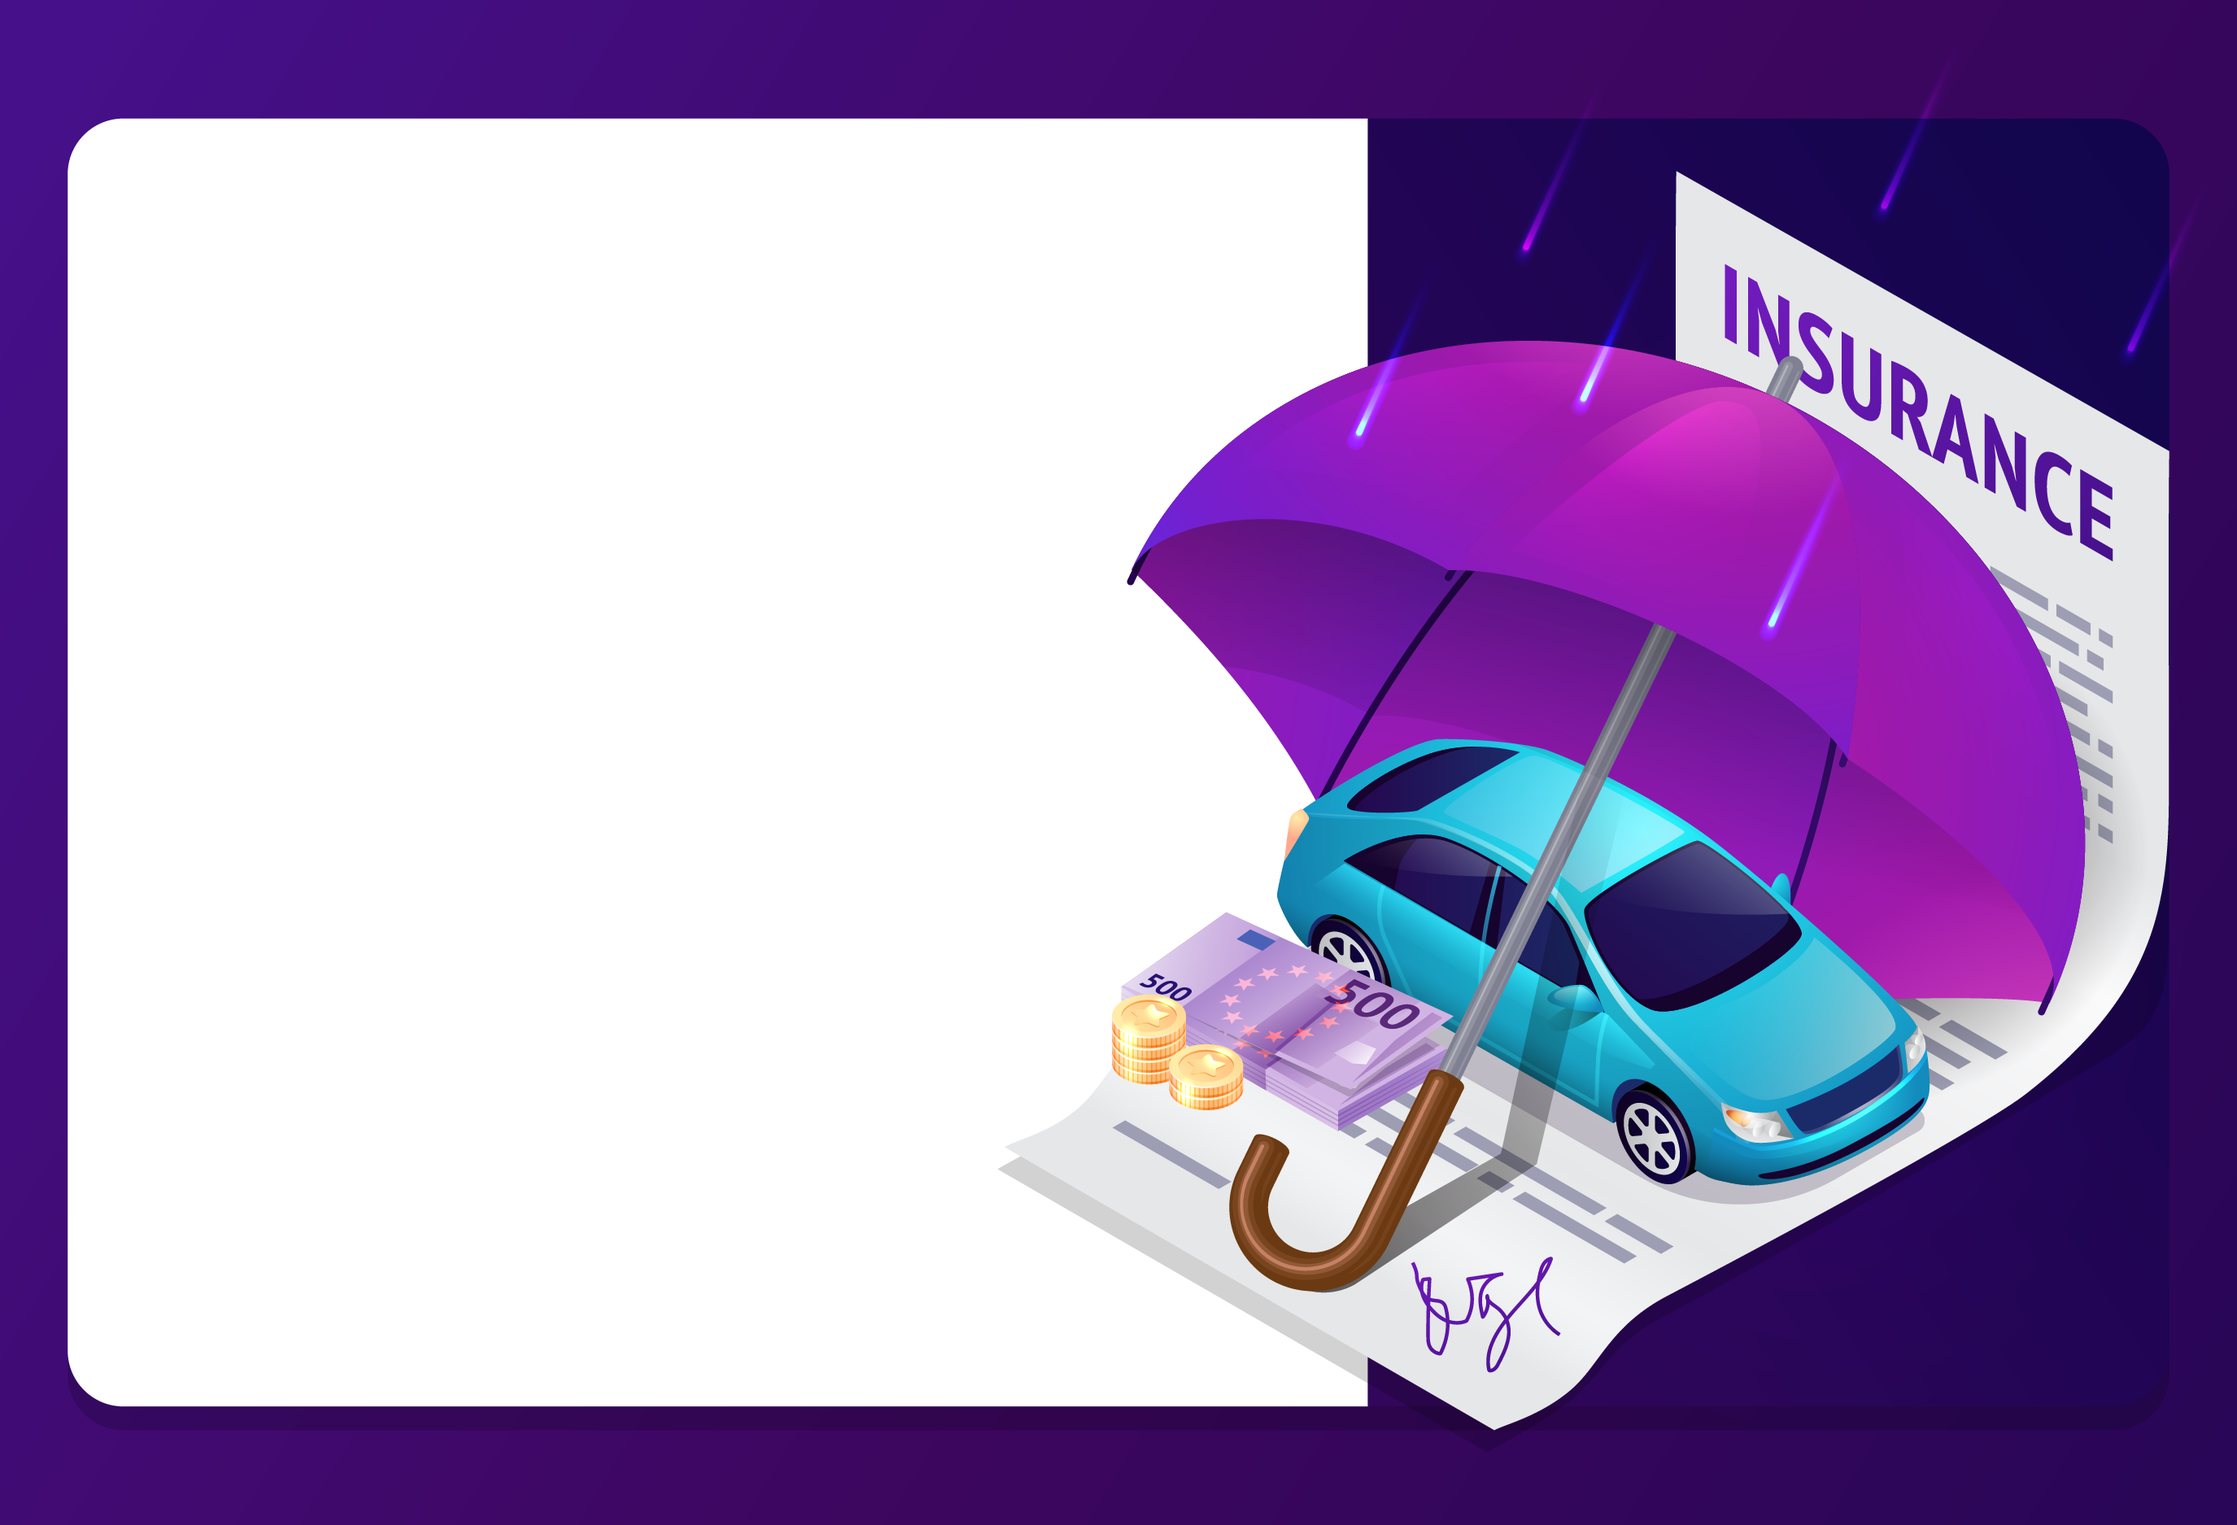
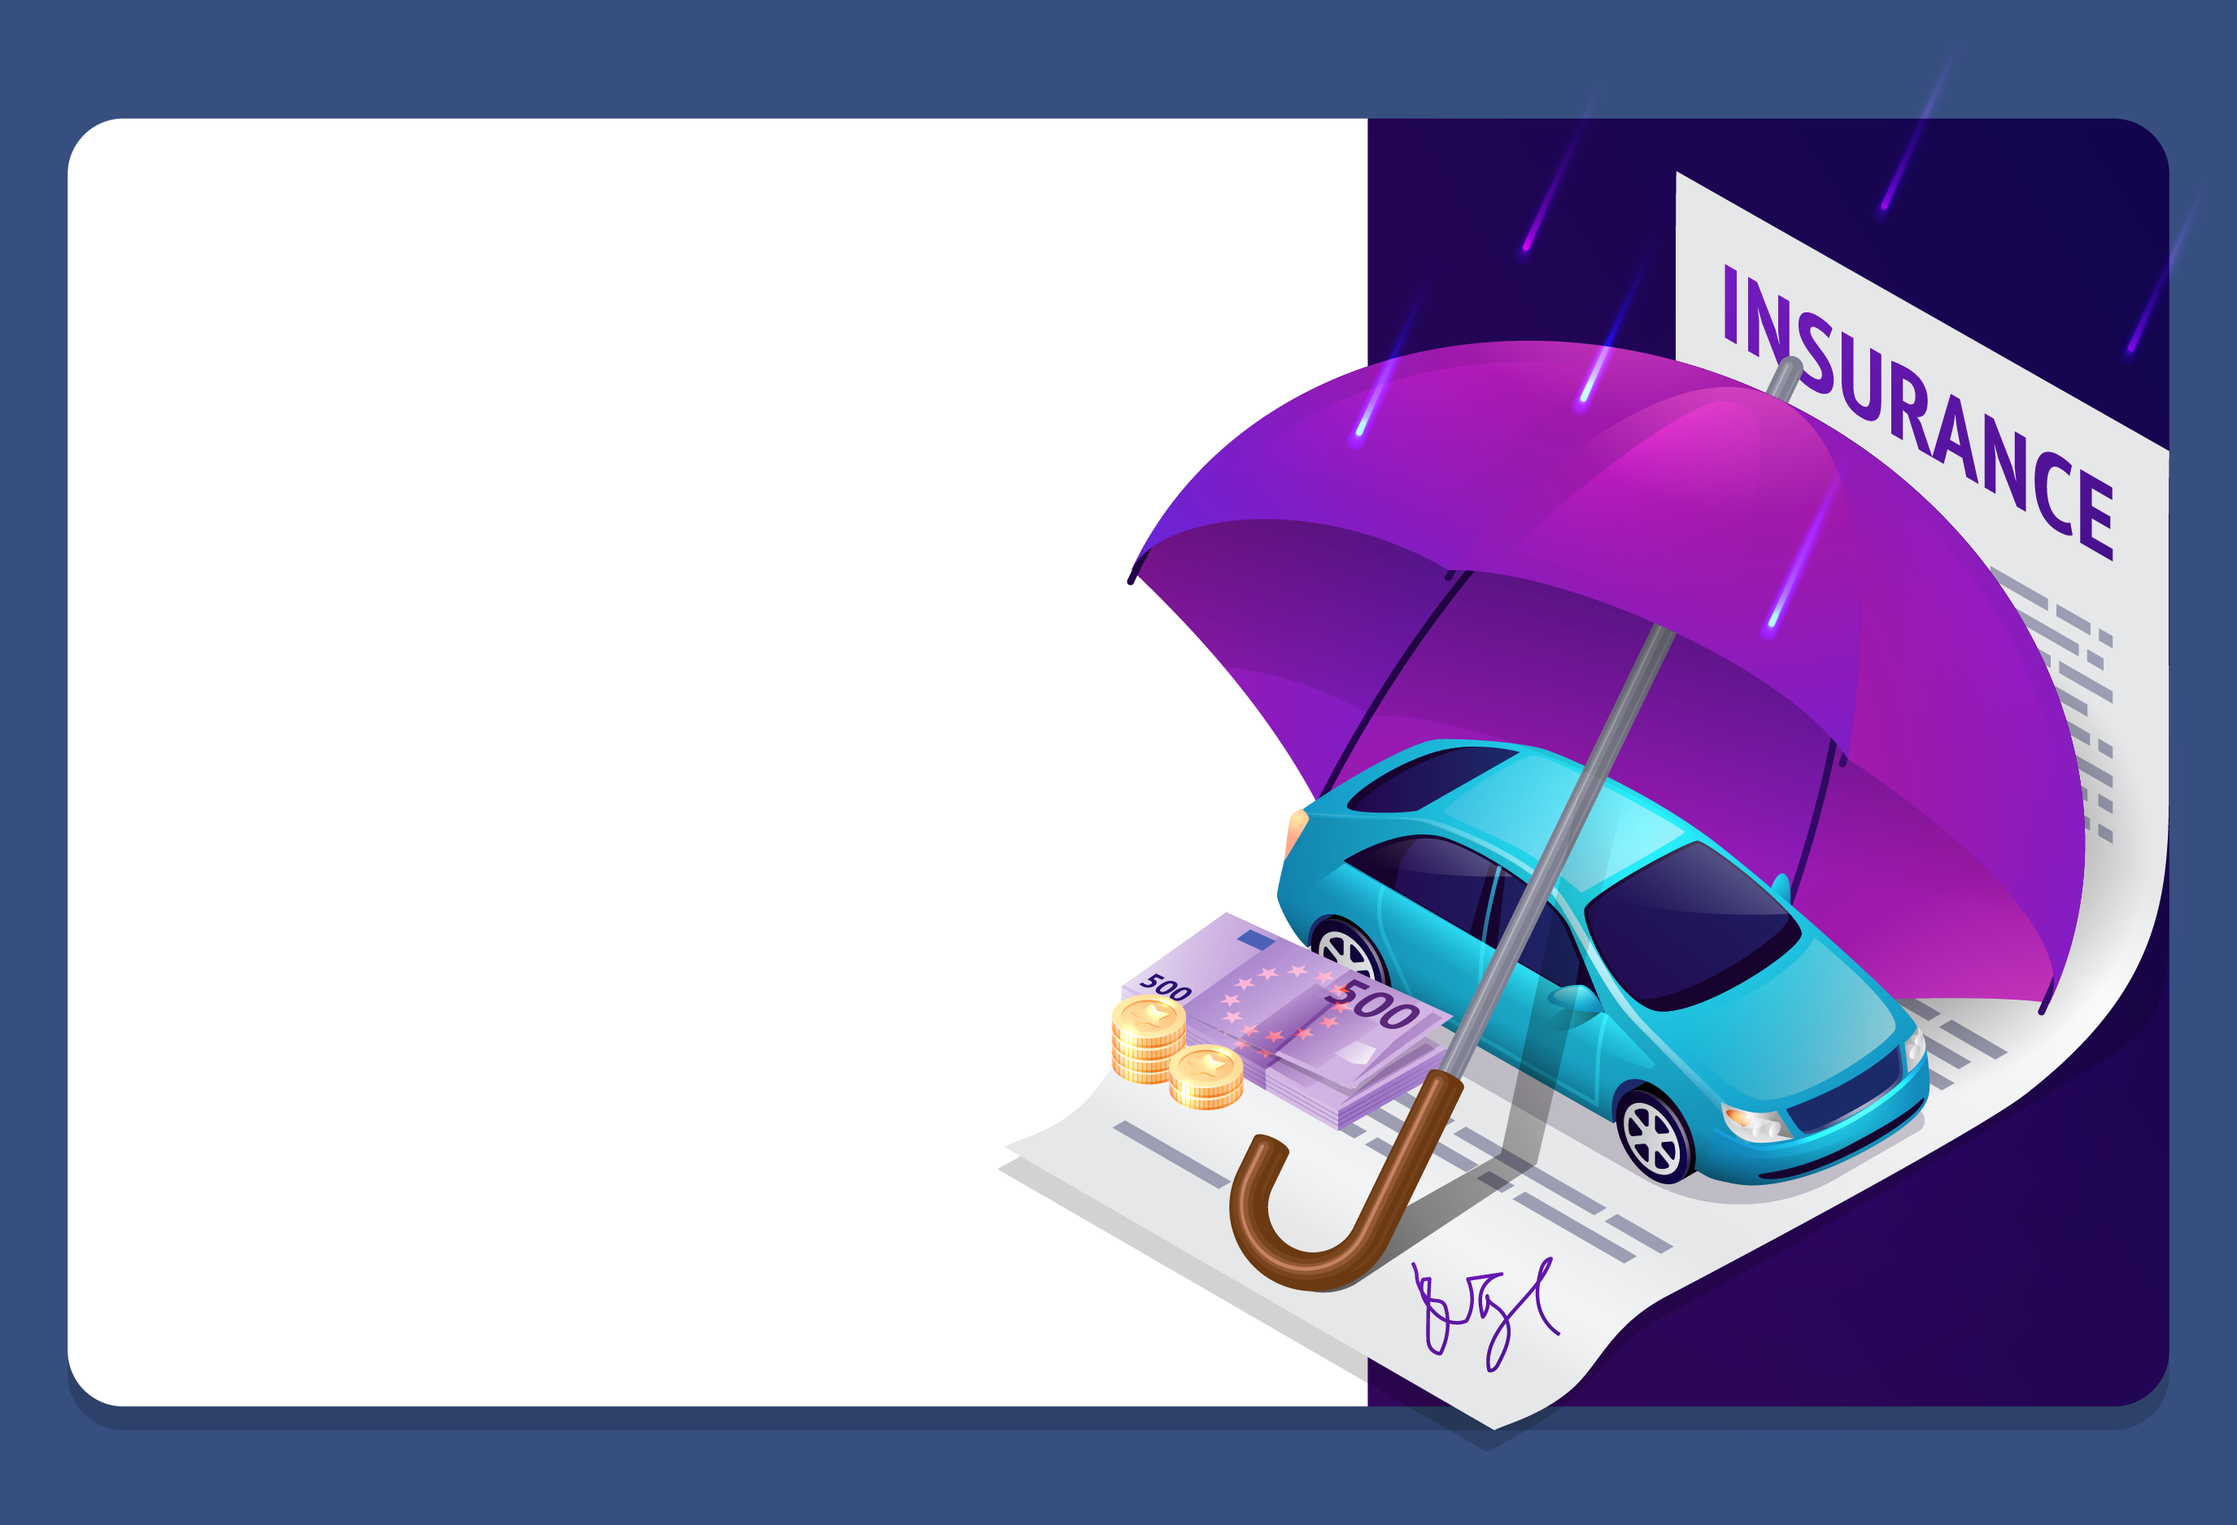
add hero picture and colors

Changed region(s): [[0.0, 0.0, 1.0, 1.0]]

diff --git a/src/pages/landing/components/hero.tsx b/src/pages/landing/components/hero.tsx
@@ -4,39 +4,47 @@ import { useTranslation } from "react-i18next";
 const Hero = () => {
   const { t } = useTranslation();
   return (
-    <div className=" h-screen flex items-center justify-center text-center px-4">
-      <div className="max-w-4xl mx-auto">
-        <h1 className="text-5xl md:text-6xl font-bold mb-6">
-          {t("landing-translation.hero_title")}
-        </h1>
-        <p className="text-xl md:text-2xl text-muted-foreground mb-8">
-          {t("landing-translation.hero_subtitle")}
-        </p>
-        <div className="flex flex-col sm:flex-row gap-4 justify-center items-center">
-          <a
-            href="https://www.apple.com/app-store/"
-            target="_blank"
-            rel="noopener noreferrer"
-          >
-            <img
-              src="https://upload.wikimedia.org/wikipedia/commons/thumb/3/3c/Download_on_the_App_Store_Badge.svg/2560px-Download_on_the_App_Store_Badge.svg.png"
-              alt="Get it on Google Play"
-              className="h-[60px]"
-            />
-          </a>
-          <a
-            href="https://play.google.com/store"
-            target="_blank"
-            rel="noopener noreferrer"
-          >
-            <img
-              src="https://upload.wikimedia.org/wikipedia/commons/7/78/Google_Play_Store_badge_EN.svg"
-              alt="Get it on Google Play"
-              className="h-[60px]"
-            />
-          </a>
+    <div
+      className="relative h-screen bg-no-repeat bg-cover bg-center"
+      style={{ backgroundImage: "url('/insurance.png')" }}
+    >
+      <div className="absolute inset-0 bg-gradient-to-r from-gray-900/80 to-transparent" />
+      <div className="relative h-full flex items-center">
+        <div className="container mx-auto px-4">
+          <div className="max-w-xl text-left text-white">
+            <h1 className="text-3xl sm:text-4xl md:text-5xl lg:text-6xl font-bold mb-4 md:mb-6">
+              {t("landing-translation.hero_title")}
+            </h1>
+            <p className="text-lg sm:text-xl md:text-2xl text-gray-200 mb-6 md:mb-8">
+              {t("landing-translation.hero_subtitle")}
+            </p>
+            <div className="flex flex-col sm:flex-row gap-3 sm:gap-4 items-start">
+              <a
+                href="https://www.apple.com/app-store/"
+                target="_blank"
+                rel="noopener noreferrer"
+              >
+                <img
+                  src="https://upload.wikimedia.org/wikipedia/commons/thumb/3/3c/Download_on_the_App_Store_Badge.svg/2560px-Download_on_the_App_Store_Badge.svg.png"
+                  alt="Get it on Google Play"
+                  className="h-[40px] sm:h-[50px] md:h-[60px]"
+                />
+              </a>
+              <a
+                href="https://play.google.com/store"
+                target="_blank"
+                rel="noopener noreferrer"
+              >
+                <img
+                  src="https://upload.wikimedia.org/wikipedia/commons/7/78/Google_Play_Store_badge_EN.svg"
+                  alt="Get it on Google Play"
+                  className="h-[40px] sm:h-[50px] md:h-[60px]"
+                />
+              </a>
+            </div>
+            <ArrowDown className="w-6 h-6 sm:w-7 sm:h-7 md:w-8 md:h-8 mt-12 md:mt-16 animate-bounce text-white" />
+          </div>
         </div>
-        <ArrowDown className="w-8 h-8 mx-auto mt-16 animate-bounce text-muted-foreground" />
       </div>
     </div>
   );

diff --git a/src/pages/landing/components/partners.tsx b/src/pages/landing/components/partners.tsx
@@ -66,35 +66,37 @@ const PartnersSection = () => {
   const { t } = useTranslation();
 
   return (
-    <div className="w-full max-w-7xl mx-auto p-6 bg-white shadow-lg rounded-xl mt-10">
-      <h2 className="text-3xl font-bold text-center mb-6 text-gray-800">
-        {t("Partners-translations.title")}
-      </h2>
+    <div className="py-20">
+      <div className="w-full max-w-7xl mx-auto p-6 bg-white shadow-lg rounded-xl mt-10">
+        <h2 className="text-3xl font-bold text-center mb-6 text-gray-800">
+          {t("Partners-translations.title")}
+        </h2>
 
-      <Carousel className="w-full">
-        <CarouselContent className="-ml-1">
-          {partners.map((partner) => (
-            <CarouselItem
-              key={partner.id}
-              className="pl-1 md:basis-1/2 lg:basis-1/4"
-            >
-              <div className="h-full flex flex-col justify-between bg-gray-100 p-6 rounded-lg shadow-md text-center mx-2">
-                <img
-                  src={partner.image}
-                  alt={partner.name}
-                  className="w-24 h-24 mx-auto mb-4 object-contain"
-                />
-                <h3 className="text-lg font-semibold">{partner.name}</h3>
-                <p className="text-sm text-gray-600 flex-grow">
-                  {t(`Partners-translations.offer_${partner.id}`)}
-                </p>
-              </div>
-            </CarouselItem>
-          ))}
-        </CarouselContent>
-        <CarouselPrevious />
-        <CarouselNext />
-      </Carousel>
+        <Carousel className="w-full">
+          <CarouselContent className="-ml-1">
+            {partners.map((partner) => (
+              <CarouselItem
+                key={partner.id}
+                className="pl-1 md:basis-1/2 lg:basis-1/4"
+              >
+                <div className="h-full flex flex-col justify-between bg-gray-100 p-6 rounded-lg shadow-md text-center mx-2">
+                  <img
+                    src={partner.image}
+                    alt={partner.name}
+                    className="w-24 h-24 mx-auto mb-4 object-contain"
+                  />
+                  <h3 className="text-lg font-semibold">{partner.name}</h3>
+                  <p className="text-sm text-gray-600 flex-grow">
+                    {t(`Partners-translations.offer_${partner.id}`)}
+                  </p>
+                </div>
+              </CarouselItem>
+            ))}
+          </CarouselContent>
+          <CarouselPrevious />
+          <CarouselNext />
+        </Carousel>
+      </div>
     </div>
   );
 };

diff --git a/src/pages/landing/components/faq.tsx b/src/pages/landing/components/faq.tsx
@@ -21,34 +21,36 @@ const FAQSection = () => {
   const icons = [HelpCircle, Car, DollarSign, MapPin, CreditCard, Star];
 
   return (
-    <div className="mt-20 w-full max-w-2xl mx-auto p-6 bg-white shadow-lg rounded-xl">
-      <h2 className="text-3xl font-bold text-center mb-6 text-gray-800">
-        {t("FAQ-translations.title")}
-      </h2>
+    <div className="py-20">
+      <div className="mt-20 w-full max-w-2xl mx-auto p-6 bg-white shadow-lg rounded-xl">
+        <h2 className="text-3xl font-bold text-center mb-6 text-gray-800">
+          {t("FAQ-translations.title")}
+        </h2>
 
-      <Accordion type="single" collapsible>
-        {[...Array(6)].map((_, index) => {
-          const questionKey = `FAQ-translations.question_${index + 1}`;
-          const answerKey = `FAQ-translations.answer_${index + 1}`;
-          const Icon = icons[index];
+        <Accordion type="single" collapsible>
+          {[...Array(6)].map((_, index) => {
+            const questionKey = `FAQ-translations.question_${index + 1}`;
+            const answerKey = `FAQ-translations.answer_${index + 1}`;
+            const Icon = icons[index];
 
-          return (
-            <AccordionItem
-              key={index}
-              value={`item-${index + 1}`}
-              className="border-b border-gray-200"
-            >
-              <AccordionTrigger className="flex items-center gap-3 text-lg font-medium text-gray-700 hover:text-blue-600">
-                <Icon className="w-5 h-5 text-blue-500" />
-                {t(questionKey)}
-              </AccordionTrigger>
-              <AccordionContent className="text-gray-600 px-6 py-2">
-                {t(answerKey)}
-              </AccordionContent>
-            </AccordionItem>
-          );
-        })}
-      </Accordion>
+            return (
+              <AccordionItem
+                key={index}
+                value={`item-${index + 1}`}
+                className="border-b border-gray-200"
+              >
+                <AccordionTrigger className="flex items-center gap-3 text-lg font-medium text-gray-700 hover:text-blue-600">
+                  <Icon className="w-5 h-5 text-blue-500" />
+                  {t(questionKey)}
+                </AccordionTrigger>
+                <AccordionContent className="text-gray-600 px-6 py-2">
+                  {t(answerKey)}
+                </AccordionContent>
+              </AccordionItem>
+            );
+          })}
+        </Accordion>
+      </div>
     </div>
   );
 };

diff --git a/src/pages/landing/components/leaderboard.tsx b/src/pages/landing/components/leaderboard.tsx
@@ -21,32 +21,34 @@ export function Leaderboard() {
   const { t } = useTranslation();
 
   return (
-    <Card className="w-full max-w-2xl mx-auto mt-20">
-      <CardHeader>
-        <CardTitle className="text-2xl font-bold text-center">
-          {t("landing-translation.leaderboard")}
-        </CardTitle>
-      </CardHeader>
-      <CardContent>
-        <Table>
-          <TableHeader>
-            <TableRow>
-              <TableHead className="w-[100px]">#</TableHead>
-              <TableHead>Name</TableHead>
-              <TableHead className="text-right">{t("points")}</TableHead>
-            </TableRow>
-          </TableHeader>
-          <TableBody>
-            {topDrivers.map((driver) => (
-              <TableRow key={driver.name}>
-                <TableCell className="font-medium">{driver.rank}</TableCell>
-                <TableCell>{driver.name}</TableCell>
-                <TableCell className="text-right">{driver.points}</TableCell>
+    <div className="bg-[#3f4a68] py-20">
+      <Card className="w-full max-w-2xl mx-auto  ">
+        <CardHeader>
+          <CardTitle className="text-2xl font-bold text-center">
+            {t("landing-translation.leaderboard")}
+          </CardTitle>
+        </CardHeader>
+        <CardContent>
+          <Table>
+            <TableHeader>
+              <TableRow>
+                <TableHead className="w-[100px]">#</TableHead>
+                <TableHead>Name</TableHead>
+                <TableHead className="text-right">{t("points")}</TableHead>
               </TableRow>
-            ))}
-          </TableBody>
-        </Table>
-      </CardContent>
-    </Card>
+            </TableHeader>
+            <TableBody>
+              {topDrivers.map((driver) => (
+                <TableRow key={driver.name}>
+                  <TableCell className="font-medium">{driver.rank}</TableCell>
+                  <TableCell>{driver.name}</TableCell>
+                  <TableCell className="text-right">{driver.points}</TableCell>
+                </TableRow>
+              ))}
+            </TableBody>
+          </Table>
+        </CardContent>
+      </Card>
+    </div>
   );
 }

diff --git a/src/layout/default/header.tsx b/src/layout/default/header.tsx
@@ -7,7 +7,7 @@ import logo from "/public/uferuli.png"; // Import your logo
 
 export const Header = () => {
   return (
-    <header className="border-b-[1px] bg-white dark:bg-black">
+    <header className=" bg-[#18222880] dark:bg-black">
       <div className="mx-auto max-w-7xl px-4 sm:px-6 lg:px-8">
         <div className="flex h-16 items-center justify-between">
           {/* Logo */}
@@ -23,7 +23,7 @@ export const Header = () => {
               className={({ isActive }) =>
                 `inline-flex items-center border-b-2 px-1 pt-1 text-sm font-medium ${
                   isActive
-                    ? "border-indigo-500 text-gray-900 dark:text-white"
+                    ? "border-indigo-500 text-white dark:text-white"
                     : "border-transparent text-gray-500 hover:border-gray-300 hover:text-gray-700"
                 }`
               }
@@ -35,8 +35,8 @@ export const Header = () => {
               className={({ isActive }) =>
                 `inline-flex items-center border-b-2 px-1 pt-1 text-sm font-medium ${
                   isActive
-                    ? "border-indigo-500 text-gray-900 dark:text-white"
-                    : "border-transparent text-gray-500 hover:border-gray-300 hover:text-gray-700"
+                    ? "border-indigo-500 text-white dark:text-white"
+                    : "border-transparent text-white hover:border-gray-300 hover:text-gray-700"
                 }`
               }
             >

diff --git a/src/layout/default/footer.tsx b/src/layout/default/footer.tsx
@@ -5,7 +5,7 @@ import { ChangeLanguage } from "./lang-switcher"; // If you want to include a la
 
 export const Footer = () => {
   return (
-    <footer className="bg-white dark:bg-black border-t-[1px]">
+    <footer className="bg-[#18222880] dark:bg-black border-t-[1px]">
       <div className="mx-auto max-w-7xl px-4 sm:px-6 lg:px-8 py-8">
         <div className="flex flex-col sm:flex-row justify-between items-center">
           {/* Left-side Content */}

diff --git a/src/layout/default/default-layout.tsx b/src/layout/default/default-layout.tsx
@@ -4,10 +4,10 @@ import { Footer } from "./footer";
 
 export default function DefaultLayout() {
   return (
-    <div className="min-h-screen dark:bg-black bg-gray-100">
+    <div className="min-h-screen dark:bg-black bg-[#37507F]">
       <Header />
-      <main className="py-10">
-        <div className="mx-auto max-w-7xl sm:px-6 lg:px-8">
+      <main>
+        <div className="mx-auto ">
           <Outlet />
         </div>
       </main>

diff --git a/src/pages/landing/components/features.tsx b/src/pages/landing/components/features.tsx
@@ -6,7 +6,7 @@ const Features = () => {
   const { t } = useTranslation();
   console.log(t("landing-translation.feature_1_title"));
   return (
-    <section className="py-20 px-4 bg-muted/30">
+    <section className="py-20 px-4 bg-[#3f4a68]">
       <div className="max-w-7xl mx-auto">
         <h2 className="text-4xl font-bold text-center mb-16">
           {t("landing-translation.features")}
